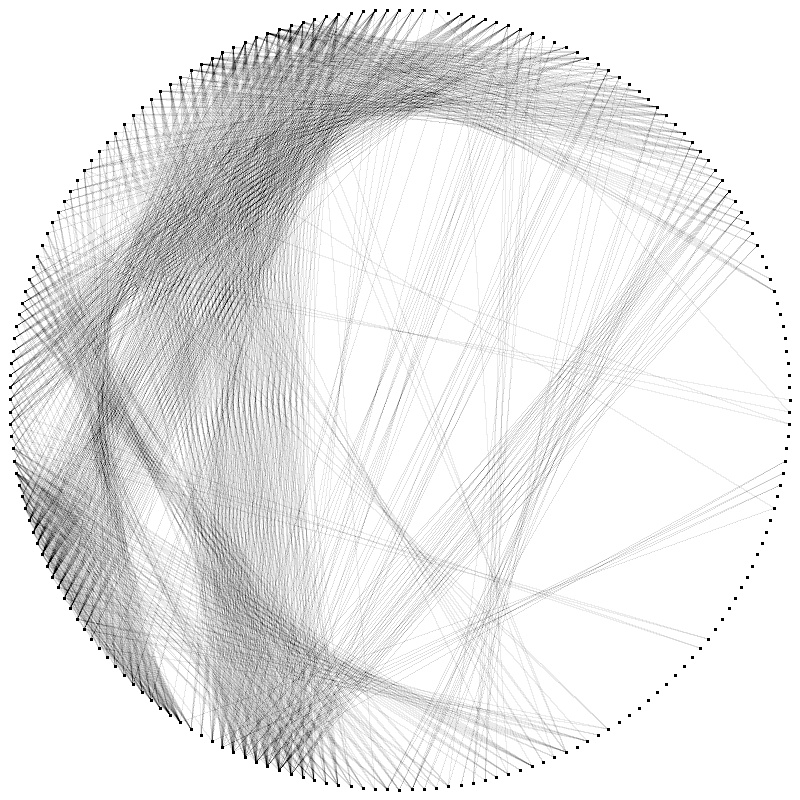
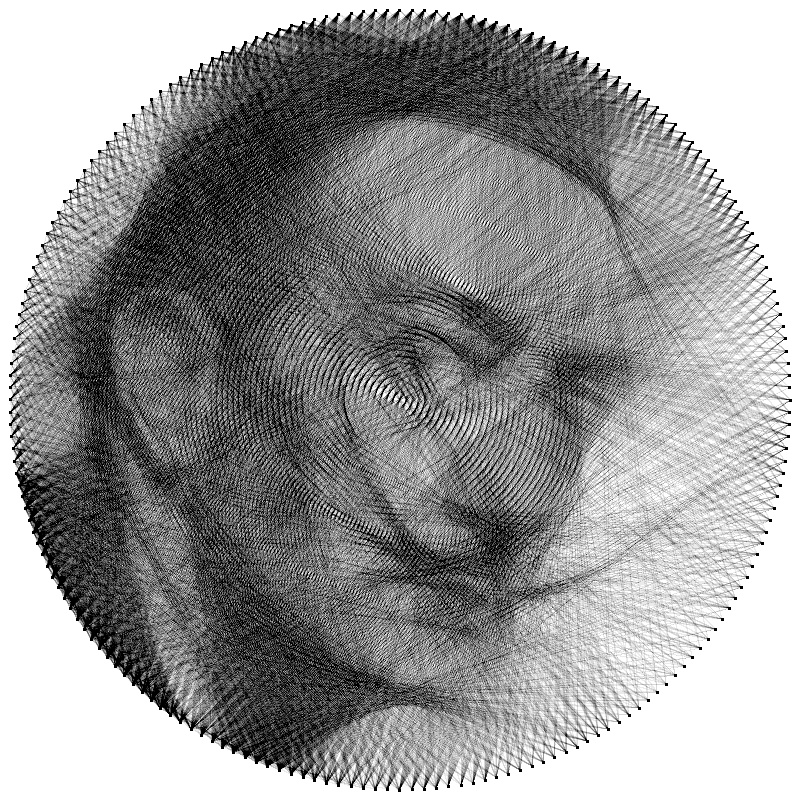
+add step distribution +add save nails array in .txt file +begin work on hand control scale

diff --git a/main.cpp b/main.cpp
@@ -1,7 +1,7 @@
 #include <opencv2/opencv.hpp>
 #include <iostream>
 #include <cmath>
-
+#include <fstream>
 using namespace std;
 using namespace cv;
 #define PI acos(-1)
@@ -53,7 +53,7 @@ int main(){
     waitKey(1);
     const int ImageWidth = GrayImage.cols;
     const int ImageHeight = GrayImage.rows;
-    cout << "Image Size: " << ImageWidth << ' ' << ImageHeight << '\n';
+    std::cout << "Image Size: " << ImageWidth << ' ' << ImageHeight << '\n';
 
     // Image matrix
     vector <vector <uchar>> image(ImageHeight, vector <uchar> (ImageWidth));
@@ -73,7 +73,7 @@ int main(){
 
     // setup string art
     const int Radius = min(ImageHeight, ImageWidth) / 2 - 10; //  - some small delta
-    cout << "R = " << Radius << '\n';
+    std::cout << "R = " << Radius << '\n';
 
     int NailsNumber = 200;
     vector <Pixel> Nails(NailsNumber);
@@ -82,7 +82,7 @@ int main(){
         int x = Radius * cos(Angle * i) + ImageWidth / 2;
         int y = Radius * sin(Angle * i) + ImageHeight / 2;
         Nails[i] = Pixel(x, y, 255);
-        //cout << cos(Angle * i) << ' ' << sin(Angle * i) << '\n';
+        //std::cout << cos(Angle * i) << ' ' << sin(Angle * i) << '\n';
     }
     vector<Pixel>circle;
     for (int i = 0; i < NailsNumber; i++) {
@@ -91,7 +91,7 @@ int main(){
     }
 
     // Scale matrix
-    vector <vector <double>> scaleMatrix(ImageHeight, vector <double>(ImageWidth, 1.0));
+    vector <vector <double>> scaleMatrix(ImageHeight, vector <double>(ImageWidth, 0.0));
     // some ideas and rules
     // 
     // Idea - normal distribution scale
@@ -99,21 +99,40 @@ int main(){
     // Idea - hand control scale
     // rule - normalize matrix  - sum(scale[i])/size = 1
 
+    //Step distribution 
+    const int StepRadius = Radius / 2;
+    int x = ImageHeight / 2;
+    int y = ImageWidth / 2;
+    double stepHeight = 0.5;
 
-    // test lines
-    //vector<Pixel>line;
-    //updateImage(stringArt, line);
-    //for (int j = 0; j < NailsNumber; j++) {
-    //    for (int i = 0; i < NailsNumber; i++) {
-    //        linePosition(Nails[j], Nails[i], line);
-    //        updateImage(stringArt, line);
-    //    }
-    //}
+    for (int i = x - StepRadius + 1; i < x + StepRadius; i++)
+        for (int j = y - StepRadius + 1; j < y + StepRadius; j++)
+            if ((x - i) * (x - i) + (y - j) * (y - j) <= StepRadius * StepRadius)
+                scaleMatrix[i][j] = stepHeight;
+    double sum = 0;
+    for (int i = 0; i < ImageHeight; i++)
+        for (int j = 0; j < ImageWidth; j++)
+            sum += scaleMatrix[i][j];
+    double baseScale = 1.0 - sum / (ImageHeight * ImageWidth);
+    cout << "base scale: " << baseScale << "\ncenter scale: " << baseScale + stepHeight << '\n';
+    for (int i = 0; i < ImageHeight; i++)
+        for (int j = 0; j < ImageWidth; j++)
+            scaleMatrix[i][j]+= baseScale;
+    //check distriburion
+    //print error of distribution
+    sum = 0;
+    for (int i = 0; i < ImageHeight; i++)
+        for (int j = 0; j < ImageWidth; j++)
+            sum += scaleMatrix[i][j];
+    double error = 1 - sum / (ImageHeight * ImageWidth);
+    std::cout << "Disrtibution error: " << error << '\n';
 
-    // greedy algorythm
+    // Main algorythm - greedy algorythm
     int startNailIndex = 0, endNailIndex = 0;
-    int IterationNumber = 1000;
-    vector<int> nailsOrder(IterationNumber);
+    int IterationNumber = 4000;
+    vector <bool> deadEnds(NailsNumber, false);
+    int deadEndNails = 0;
+    vector<int> nailsOrder(IterationNumber, -1);
     for (int iteration = 0; iteration < IterationNumber; iteration++) {
         vector<Pixel>line;
         vector<Pixel>optimalLine;
@@ -121,8 +140,8 @@ int main(){
         for (int i = 0; i < NailsNumber; i++) {
             if (dist(startNailIndex, i, NailsNumber) > 10) {
                 linePosition(Nails[startNailIndex], Nails[i], line);
-                double diff = difference(line, image, stringArt);
-                //cout << diff << '\n';
+                double diff = difference(line, image, stringArt, scaleMatrix);
+                //std::cout << diff << '\n';
                 if (diff > optimalDiff) {
                     optimalDiff = diff;
                     optimalLine = line;
@@ -134,18 +153,39 @@ int main(){
             startNailIndex = endNailIndex;
         }
         else {
+            if (!deadEnds[startNailIndex]) {
+                deadEndNails++;
+                deadEnds[startNailIndex] = true; 
+            }
             linePosition(Nails[startNailIndex], Nails[(startNailIndex + 1) % NailsNumber], optimalLine);
             startNailIndex = (startNailIndex + 1) % NailsNumber;
             endNailIndex = startNailIndex;
         }
         nailsOrder[iteration] = startNailIndex;
         updateImage(stringArt, optimalLine);
-
-        if (iteration % (IterationNumber / 100) == 0)cout << "progress: " << 100 * iteration / IterationNumber << " %" << '\n';
+        if (iteration % (IterationNumber / 100) == 0)std::cout << "progress: " << 100 * iteration / IterationNumber << " %" << '\n';
+        if (deadEndNails == NailsNumber) {
+            cout << "All nails are dead end\n";
+            break;
+        }
     }
-    cout << "output array:\n";
-    for (int i = 0; i < IterationNumber; i++)cout << nailsOrder[i] << ' ';
-    cout << '\n';
+
+    //prepare outpur array
+    int index = IterationNumber - 1;
+    while (nailsOrder[index] == -1)index--;
+    while (dist(nailsOrder[index], nailsOrder[index - 1], NailsNumber) < 2) {
+        nailsOrder[index] = -1;
+        index--;
+    }
+    std::ofstream file("result.txt"); 
+    std::cout << "output array:\n[ ";
+    for (int i = 0; i < IterationNumber; i++)if (nailsOrder[i] != -1) {
+        std::cout << nailsOrder[i] << ' ';
+        file << nailsOrder[i] << ' ';
+    }
+    file.close();
+    std::cout << ']' << '\n';
+
     // View result
     Mat FinalResult(ImageHeight,ImageWidth, CV_8UC1);
     viewMatrix(stringArt, FinalResult);
@@ -188,7 +228,7 @@ void linePosition(Pixel Pixel1, Pixel Pixel2, vector <Pixel>& line) {
             index++;
         }
     }
-    // for (int i = 0; i < line.size(); i++)cout << line[i].x << ' ' << line[i].y << '\n';
+    // for (int i = 0; i < line.size(); i++)std::cout << line[i].x << ' ' << line[i].y << '\n';
 }
 
 void updateImage(vector<vector<uchar>> &Image,const vector <Pixel> &changes) {
